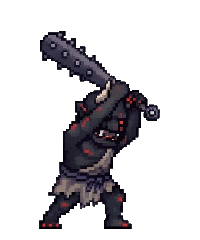
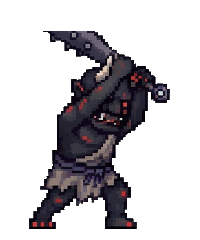
Recorte: los oni sin el rótulo Yōkai pegado

Changed region(s): [[0.12, 0.1167, 0.87, 0.9625]]

diff --git a/scripts/recortar-arte.py b/scripts/recortar-arte.py
@@ -958,7 +958,7 @@ ALDEANOS_FIJOS = [
 TROPAS = [
     ("sprites-tropas-era3.png", (300, 85, 2752, 410), "samurai"),
     ("sprites-tropas-era3.png", (300, 420, 2752, 770), "arquero"),
-    ("sprites-tropas-era3.png", (300, 820, 2752, 1190), "oni"),
+    ("sprites-tropas-era3.png", (300, 880, 2752, 1190), "oni"),  # desde 880: fuera el rótulo "Yōkai"
     ("sprites-tropas-era3.png", (300, 1195, 2752, 1530), "kitsune"),
 ]
 # Los samuráis se tocan entre sí en la hoja: sus pasos van con cajas fijas.
